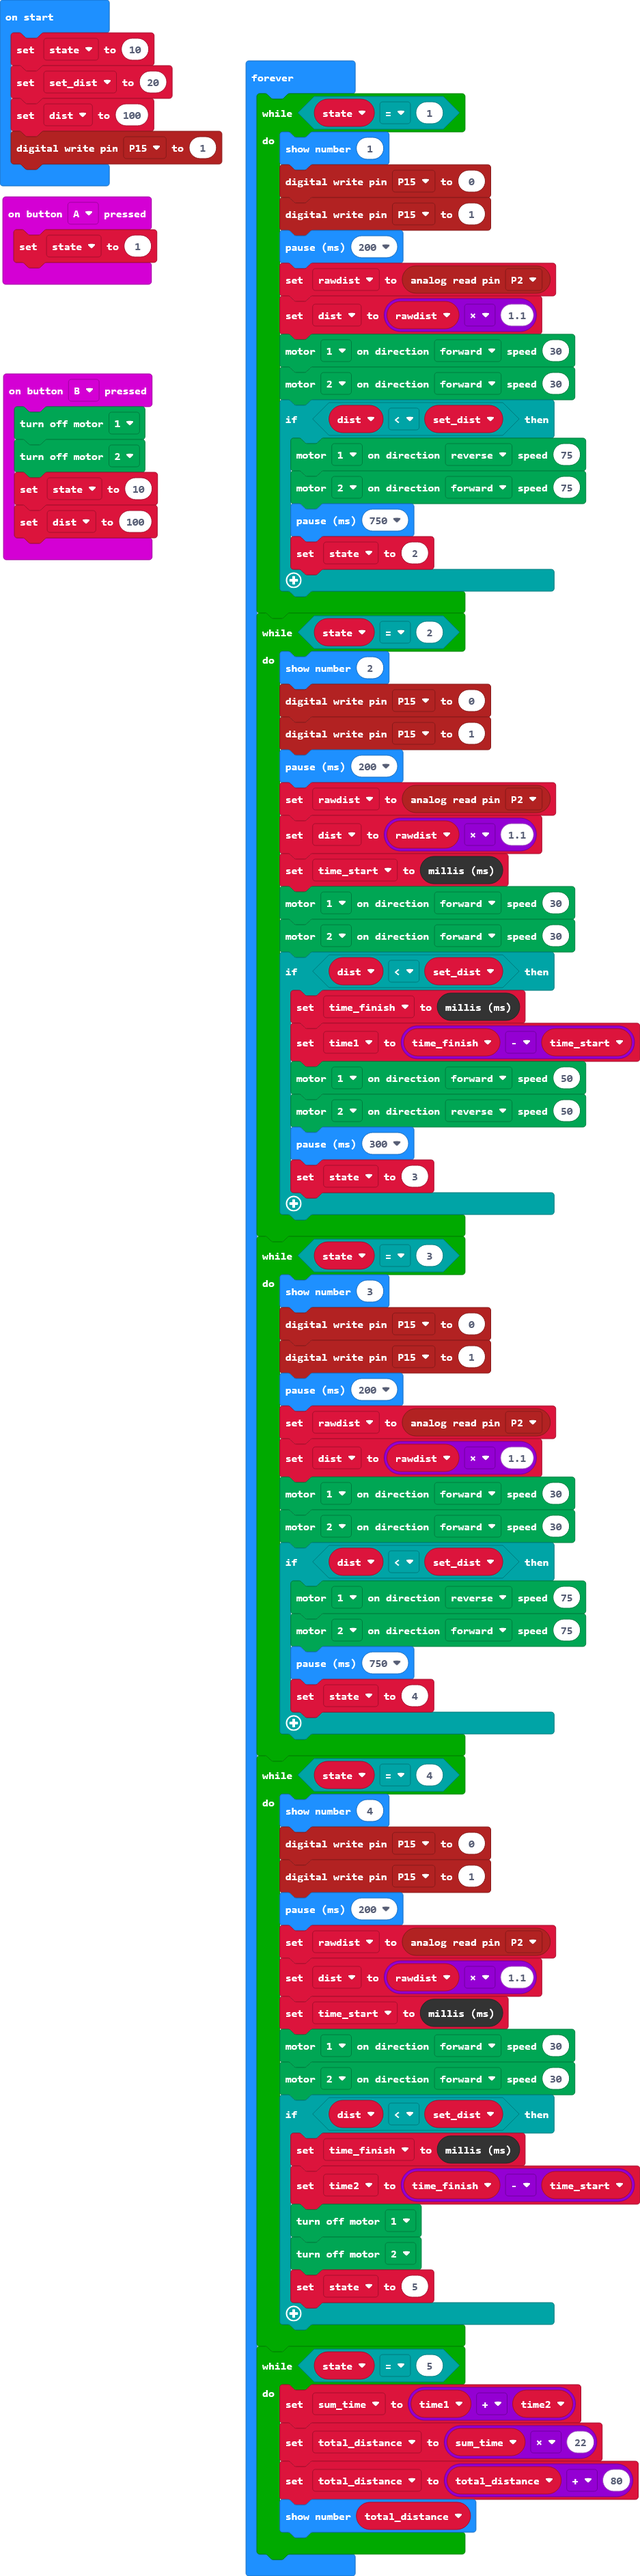
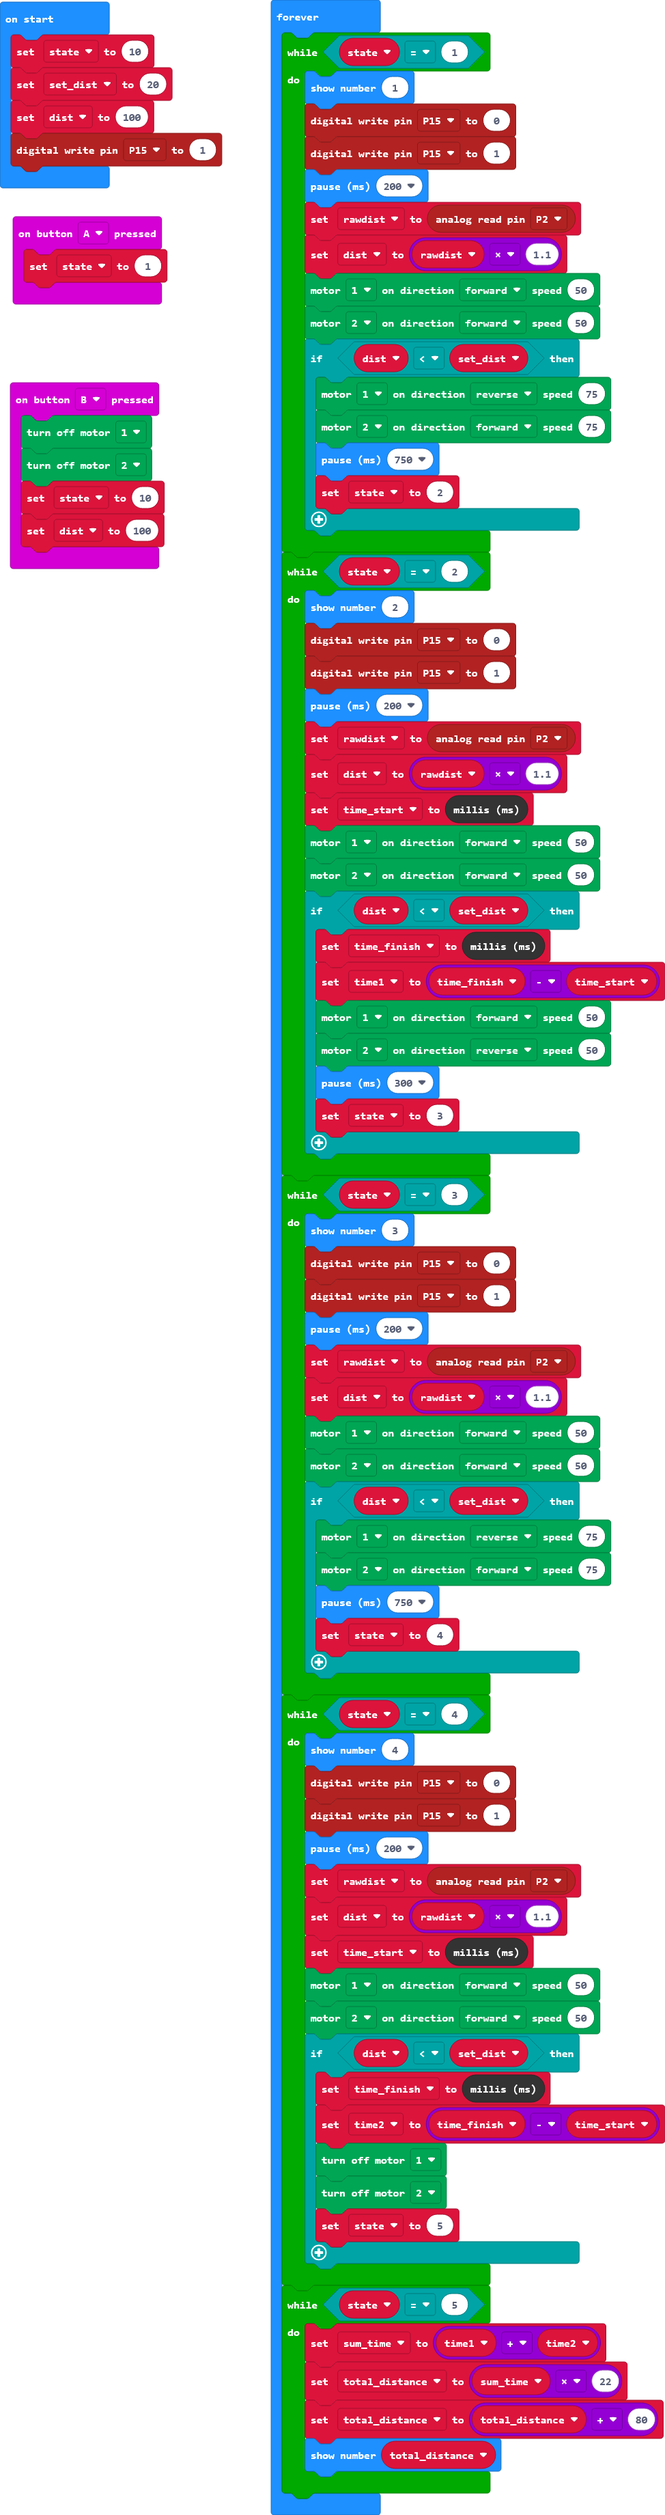
Update main.blocks, main.ts, main.py

diff --git a/main.ts b/main.ts
@@ -28,8 +28,8 @@ basic.forever(function () {
         basic.pause(200)
         rawdist = pins.analogReadPin(AnalogPin.P2)
         dist = rawdist * 1.1
-        kitronik_motor_driver.motorOn(kitronik_motor_driver.Motors.Motor1, kitronik_motor_driver.MotorDirection.Forward, 30)
-        kitronik_motor_driver.motorOn(kitronik_motor_driver.Motors.Motor2, kitronik_motor_driver.MotorDirection.Forward, 30)
+        kitronik_motor_driver.motorOn(kitronik_motor_driver.Motors.Motor1, kitronik_motor_driver.MotorDirection.Forward, 50)
+        kitronik_motor_driver.motorOn(kitronik_motor_driver.Motors.Motor2, kitronik_motor_driver.MotorDirection.Forward, 50)
         if (dist < set_dist) {
             kitronik_motor_driver.motorOn(kitronik_motor_driver.Motors.Motor1, kitronik_motor_driver.MotorDirection.Reverse, 75)
             kitronik_motor_driver.motorOn(kitronik_motor_driver.Motors.Motor2, kitronik_motor_driver.MotorDirection.Forward, 75)
@@ -45,8 +45,8 @@ basic.forever(function () {
         rawdist = pins.analogReadPin(AnalogPin.P2)
         dist = rawdist * 1.1
         time_start = control.millis()
-        kitronik_motor_driver.motorOn(kitronik_motor_driver.Motors.Motor1, kitronik_motor_driver.MotorDirection.Forward, 30)
-        kitronik_motor_driver.motorOn(kitronik_motor_driver.Motors.Motor2, kitronik_motor_driver.MotorDirection.Forward, 30)
+        kitronik_motor_driver.motorOn(kitronik_motor_driver.Motors.Motor1, kitronik_motor_driver.MotorDirection.Forward, 50)
+        kitronik_motor_driver.motorOn(kitronik_motor_driver.Motors.Motor2, kitronik_motor_driver.MotorDirection.Forward, 50)
         if (dist < set_dist) {
             time_finish = control.millis()
             time1 = time_finish - time_start
@@ -63,8 +63,8 @@ basic.forever(function () {
         basic.pause(200)
         rawdist = pins.analogReadPin(AnalogPin.P2)
         dist = rawdist * 1.1
-        kitronik_motor_driver.motorOn(kitronik_motor_driver.Motors.Motor1, kitronik_motor_driver.MotorDirection.Forward, 30)
-        kitronik_motor_driver.motorOn(kitronik_motor_driver.Motors.Motor2, kitronik_motor_driver.MotorDirection.Forward, 30)
+        kitronik_motor_driver.motorOn(kitronik_motor_driver.Motors.Motor1, kitronik_motor_driver.MotorDirection.Forward, 50)
+        kitronik_motor_driver.motorOn(kitronik_motor_driver.Motors.Motor2, kitronik_motor_driver.MotorDirection.Forward, 50)
         if (dist < set_dist) {
             kitronik_motor_driver.motorOn(kitronik_motor_driver.Motors.Motor1, kitronik_motor_driver.MotorDirection.Reverse, 75)
             kitronik_motor_driver.motorOn(kitronik_motor_driver.Motors.Motor2, kitronik_motor_driver.MotorDirection.Forward, 75)
@@ -80,8 +80,8 @@ basic.forever(function () {
         rawdist = pins.analogReadPin(AnalogPin.P2)
         dist = rawdist * 1.1
         time_start = control.millis()
-        kitronik_motor_driver.motorOn(kitronik_motor_driver.Motors.Motor1, kitronik_motor_driver.MotorDirection.Forward, 30)
-        kitronik_motor_driver.motorOn(kitronik_motor_driver.Motors.Motor2, kitronik_motor_driver.MotorDirection.Forward, 30)
+        kitronik_motor_driver.motorOn(kitronik_motor_driver.Motors.Motor1, kitronik_motor_driver.MotorDirection.Forward, 50)
+        kitronik_motor_driver.motorOn(kitronik_motor_driver.Motors.Motor2, kitronik_motor_driver.MotorDirection.Forward, 50)
         if (dist < set_dist) {
             time_finish = control.millis()
             time2 = time_finish - time_start

diff --git a/main.py b/main.py
@@ -1,6 +1,3 @@
-def checkdist():
-    pass
-
 def on_button_pressed_a():
     global state
     state = 1
